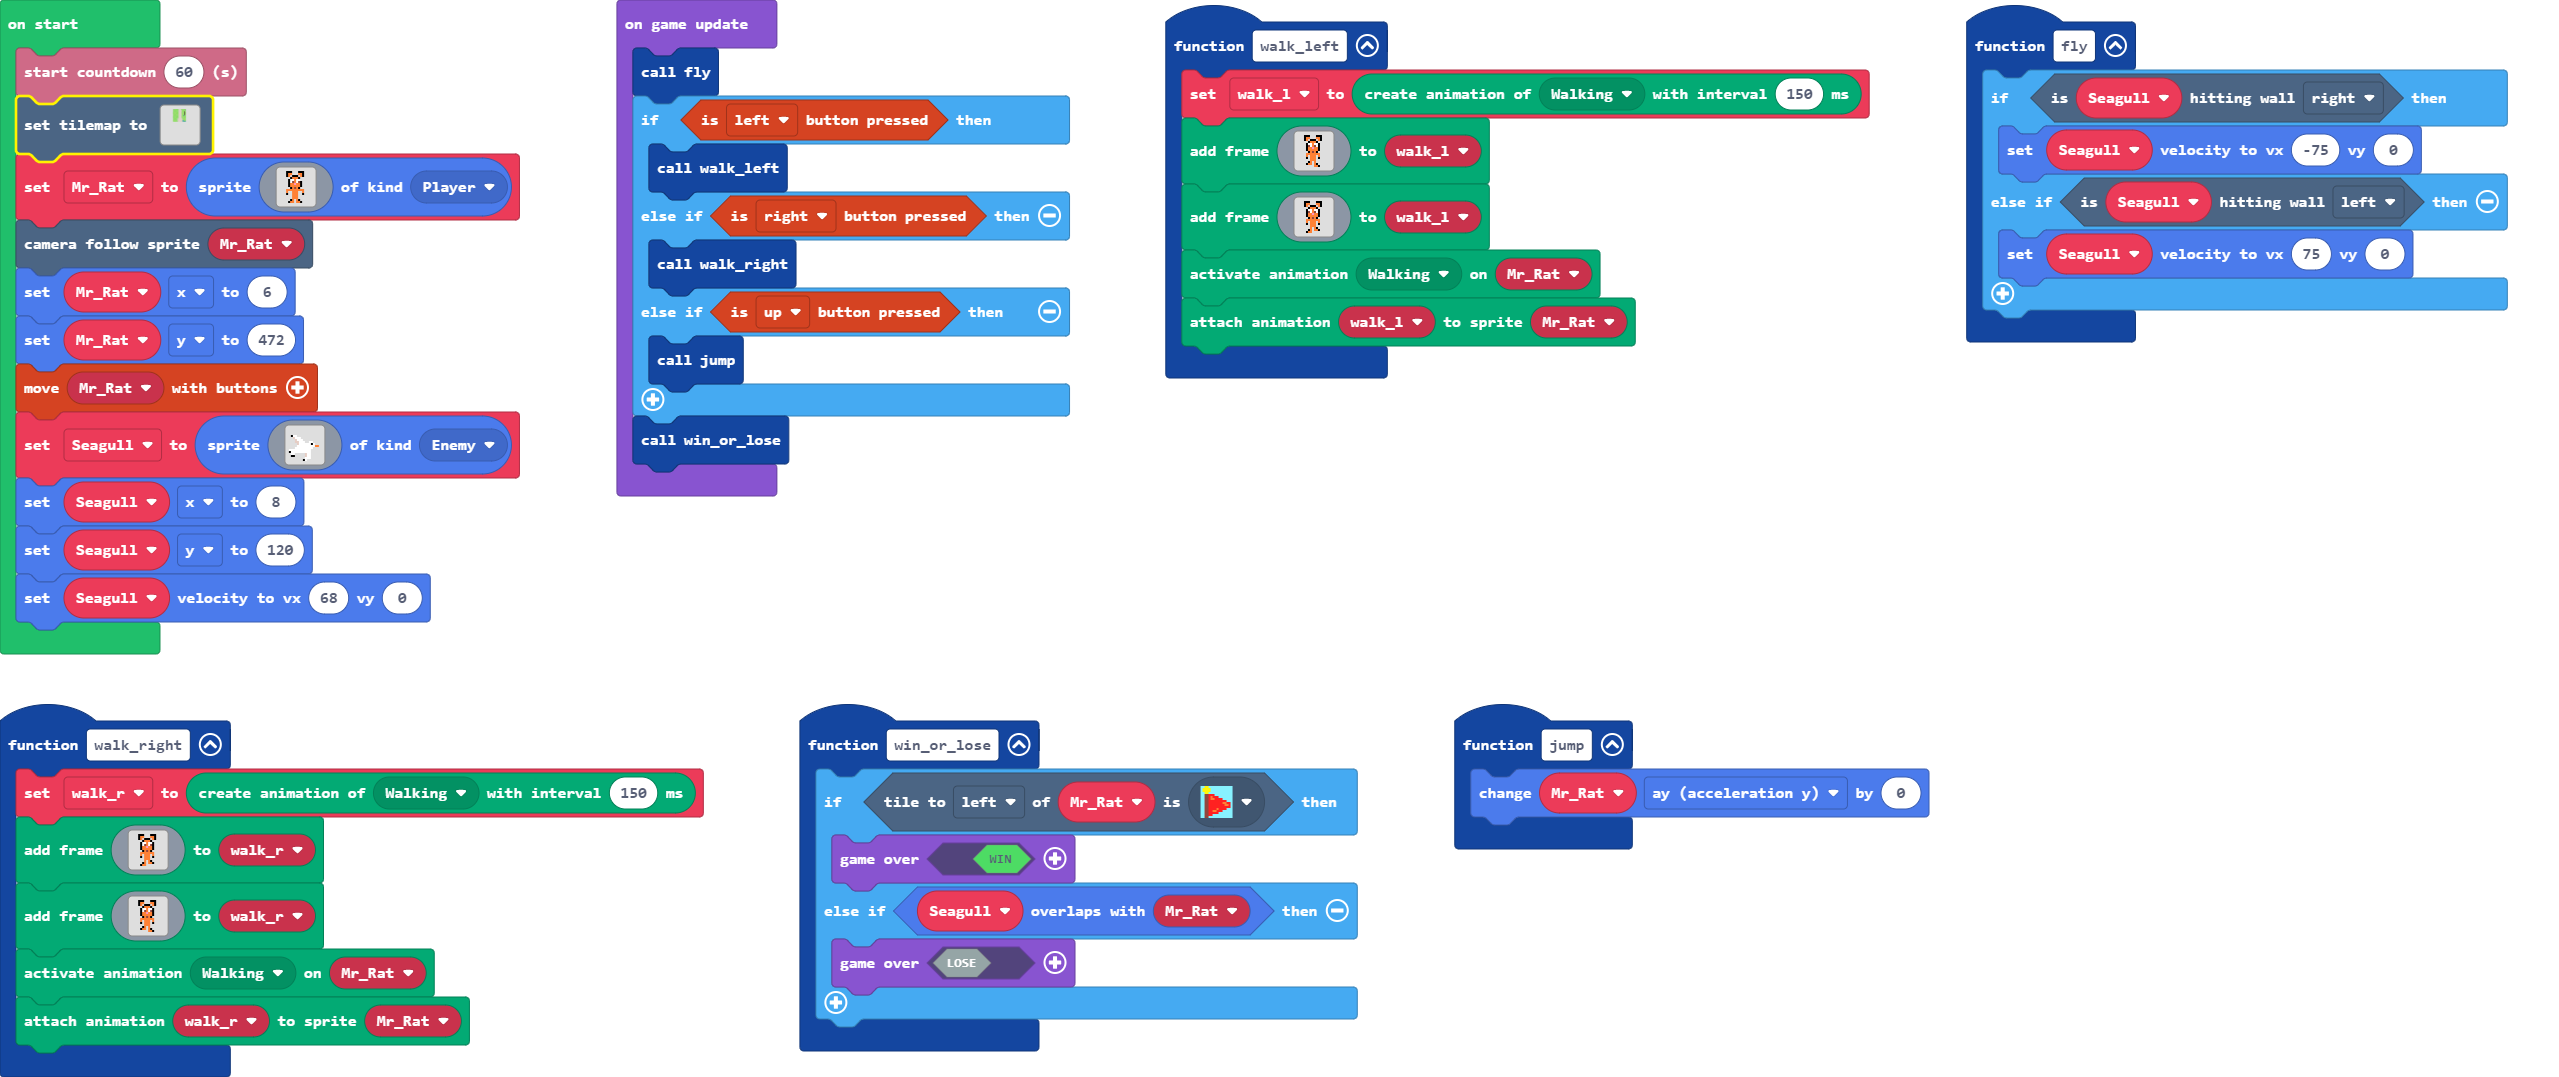
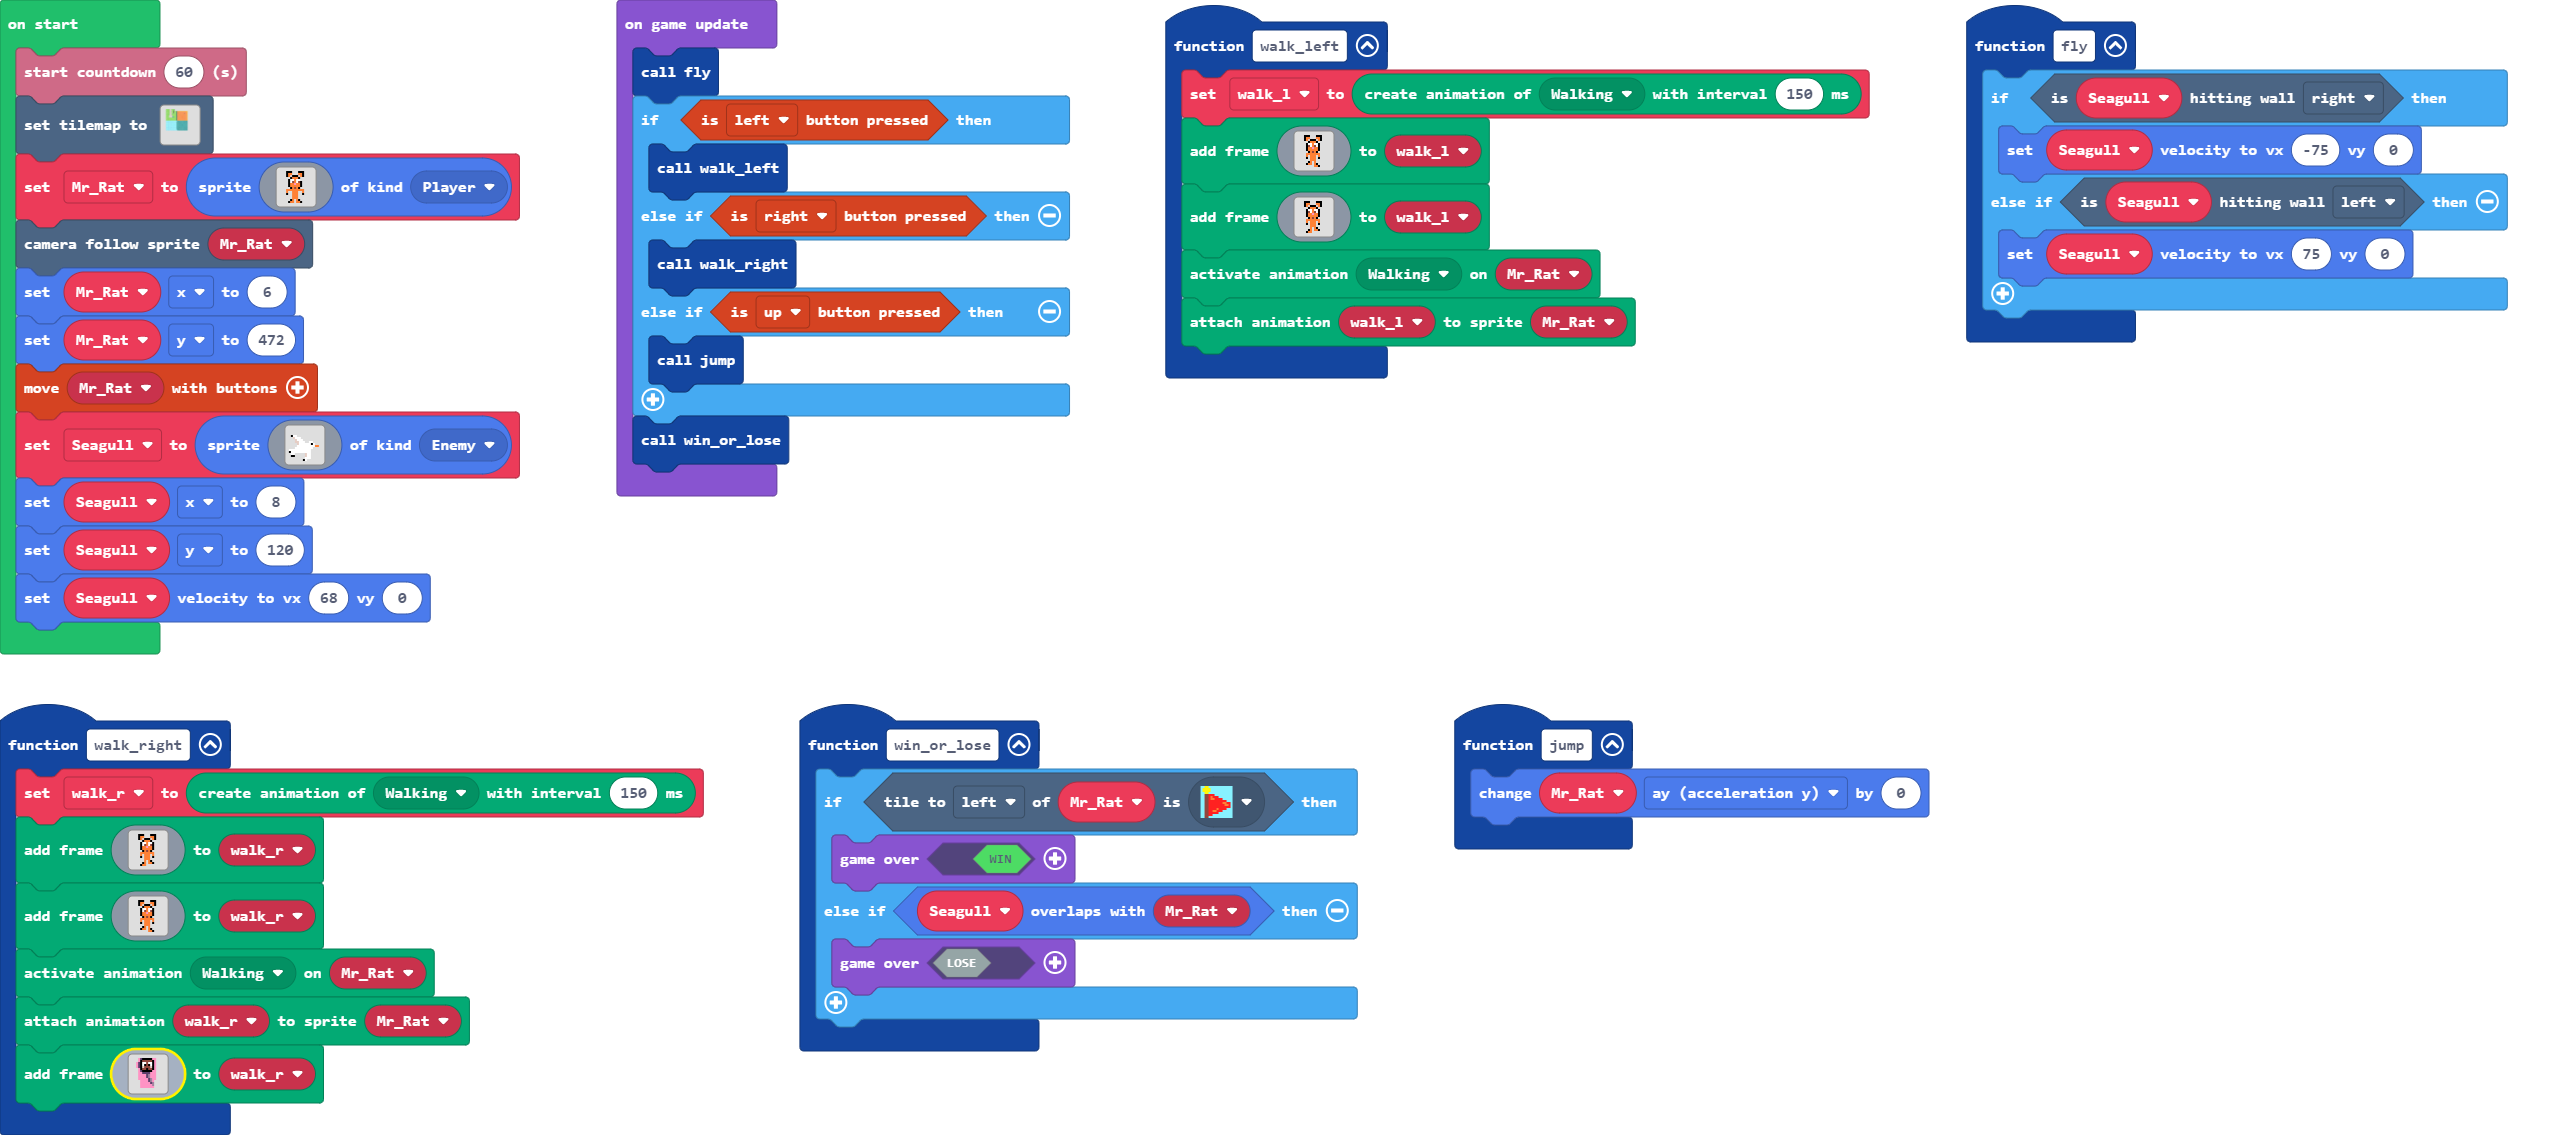
Update main.blocks, main.ts, tilemap.g.jres, tilemap.g.ts

Changed region(s): [[0.0, 0.0, 0.7409, 0.9805], [0.3087, 0.6128, 0.7718, 0.9805], [0.7718, 0.0, 0.9879, 0.337]]

diff --git a/tilemap.g.ts b/tilemap.g.ts
@@ -3,8 +3,6 @@ namespace myTiles {
     //% fixedInstance jres blockIdentity=images._tile
     export const transparency16 = image.ofBuffer(hex``);
     //% fixedInstance jres blockIdentity=images._tile
-    export const tile0 = image.ofBuffer(hex``);
-    //% fixedInstance jres blockIdentity=images._tile
     export const tile1 = image.ofBuffer(hex``);
     //% fixedInstance jres blockIdentity=images._tile
     export const tile2 = image.ofBuffer(hex``);
@@ -47,8 +45,6 @@ namespace myTiles {
     //% fixedInstance jres blockIdentity=images._tile
     export const tile27 = image.ofBuffer(hex``);
     //% fixedInstance jres blockIdentity=images._tile
-    export const tile3 = image.ofBuffer(hex``);
-    //% fixedInstance jres blockIdentity=images._tile
     export const tile6 = image.ofBuffer(hex``);
     //% fixedInstance jres blockIdentity=images._tile
     export const tile11 = image.ofBuffer(hex``);
@@ -90,6 +86,12 @@ namespace myTiles {
     export const tile42 = image.ofBuffer(hex``);
     //% fixedInstance jres blockIdentity=images._tile
     export const tile43 = image.ofBuffer(hex``);
+    //% fixedInstance jres blockIdentity=images._tile
+    export const tile0 = image.ofBuffer(hex``);
+    //% fixedInstance jres blockIdentity=images._tile
+    export const tile3 = image.ofBuffer(hex``);
+    //% fixedInstance jres blockIdentity=images._tile
+    export const tile44 = image.ofBuffer(hex``);
 
     helpers._registerFactory("tilemap", function(name: string) {
         switch(helpers.stringTrim(name)) {
@@ -161,49 +163,6 @@ namespace myTiles {
 ....2..2..
 2222222222
 `, [myTiles.transparency16,sprites.builtin.oceanDepths0,myTiles.tile2,myTiles.tile4,myTiles.tile5,myTiles.tile7,myTiles.tile8,myTiles.tile9,myTiles.tile10,myTiles.tile13,myTiles.tile14,myTiles.tile15,myTiles.tile17,sprites.builtin.oceanSand8,myTiles.tile22,myTiles.tile23,myTiles.tile24,myTiles.tile25,myTiles.tile26], TileScale.Sixteen);
-            case "level3":
[1 lines of base64/hex data omitted]
-................
-................
-................
-................
-................
-................
-................
-................
-................
-................
-................
-................
-................
-................
-................
-................
-................
-................
-................
-................
-................
-................
-................
-................
-................
-................
-................
-................
-................
-................
-................
-................
-................
-................
-................
-................
-................
-................
-................
-................
-`, [myTiles.transparency16,sprites.castle.tileGrass3,sprites.castle.tilePath5,sprites.castle.tilePath4,sprites.castle.tilePath6,sprites.castle.tilePath1,sprites.castle.tileGrass1,sprites.castle.tilePath3,sprites.castle.tileDarkGrass1,sprites.castle.tileGrass2,sprites.builtin.forestTiles0,sprites.swamp.swampTile1,sprites.builtin.forestTiles19,sprites.castle.tileDarkGrass2], TileScale.Sixteen);
             case "level4":
             case "level4":return tiles.createTilemap(hex`1000100000000000000000000000000000000000000000000000000000000000000000000000000000000000000000000000000000000000000000000000000000000000000000000000000000000000000000000000000000000000000000000000000000000000000000000000000000000000000000000000000000000000000000000000000000000000000000000000000000000000000000000000000000000000000000000000000000000000000000000000000000000000000000000000000000000000000000000000000000000000000000000000000000000000000000000000000000000000000000000000000000000000000000000000000000000000`, img`
 . . . . . . . . . . . . . . . . 
@@ -223,6 +182,69 @@ namespace myTiles {
 . . . . . . . . . . . . . . . . 
 . . . . . . . . . . . . . . . . 
 `, [myTiles.transparency16], TileScale.Sixteen);
+            case "level3":
[1 lines of base64/hex data omitted]
+..................................................
+..................................................
+..................................................
+..................................................
+..................................................
+..................................................
+..................................................
+..................................................
+..................................................
+..................................................
+..................................................
+..................................................
+..................................................
+..................................................
+..................................................
+..................................................
+..................................................
+..................................................
+..................................................
+..................................................
+..................................................
+..................................................
+..................................................
+..................................................
+..................................................
+..................................................
+..................................................
+..................................................
+..................................................
+..................................................
+..................................................
+..................................................
+..................................................
+..................................................
+..................................................
+..................................................
+..................................................
+..................................................
+..................................................
+..................................................
+..................................................
+..................................................
+..................................................
+..................................................
+..................................................
+..................................................
+..................................................
+..................................................
+..................................................
+..................................................
+..................................................
+..................................................
+..................................................
+..................................................
+..................................................
+..................................................
+..................................................
+..................................................
+..................................................
+..................................................
+`, [myTiles.transparency16,sprites.castle.tileGrass3,sprites.castle.tilePath5,sprites.castle.tilePath4,sprites.castle.tilePath6,sprites.castle.tilePath1,sprites.castle.tileGrass1,sprites.castle.tilePath3,sprites.castle.tileDarkGrass1,sprites.castle.tileGrass2,sprites.builtin.forestTiles0,sprites.swamp.swampTile1,sprites.builtin.forestTiles19,sprites.castle.tileDarkGrass2,myTiles.tile0,myTiles.tile4,myTiles.tile3,sprites.castle.tileDarkGrass3,myTiles.tile44,myTiles.tile43], TileScale.Sixteen);
         }
         return null;
     })
@@ -230,7 +252,6 @@ namespace myTiles {
     helpers._registerFactory("tile", function(name: string) {
         switch(helpers.stringTrim(name)) {
             case "transparency16":return transparency16;
-            case "tile0":return tile0;
             case "tile1":return tile1;
             case "tile2":return tile2;
             case "tile4":return tile4;
@@ -252,7 +273,6 @@ namespace myTiles {
             case "tile25":return tile25;
             case "tile26":return tile26;
             case "tile27":return tile27;
-            case "tile3":return tile3;
             case "tile6":return tile6;
             case "tile11":return tile11;
             case "tile12":return tile12;
@@ -274,6 +294,10 @@ namespace myTiles {
             case "tile41":return tile41;
             case "tile42":return tile42;
             case "tile43":return tile43;
+            case "tile0":return tile0;
+            case "tile3":return tile3;
+            case "myTile":
+            case "tile44":return tile44;
         }
         return null;
     })

diff --git a/main.ts b/main.ts
@@ -102,6 +102,24 @@ function walk_right () {
         `)
     animation.setAction(Mr_Rat, ActionKind.Walking)
     animation.attachAnimation(Mr_Rat, walk_r)
+    walk_r.addAnimationFrame(img`
+        . . . 3 c f f f f f 3 3 . . . . 
+        . . . 3 f e e e e e f 3 . . . . 
+        . . 3 c f 1 1 e 1 1 f 3 . . . . 
+        . . 3 c f 1 f e f 1 f 3 . . . . 
+        . . 3 c f d e e e d f 3 . . . . 
+        . . . 3 f e e f e e f 3 . . . . 
+        . . . 3 c f f f f f 3 3 . . . . 
+        . . . 3 3 c c c c 3 3 3 . . . . 
+        . . . 3 3 3 3 c b 3 3 3 . . . . 
+        . . . 3 3 3 3 c b 3 3 3 . . . . 
+        . . . 3 3 3 3 3 c b 3 3 . . . . 
+        . . . . 3 3 3 3 c b 3 . . . . . 
+        . . . . 3 3 3 3 3 c b . . . . . 
+        . . . . 3 3 3 3 3 3 b . . . . . 
+        . . . . 3 3 3 3 3 3 3 . . . . . 
+        . . . . . . . . . . . . . . . . 
+        `)
 }
 let walk_r: animation.Animation = null
 let walk_l: animation.Animation = null
